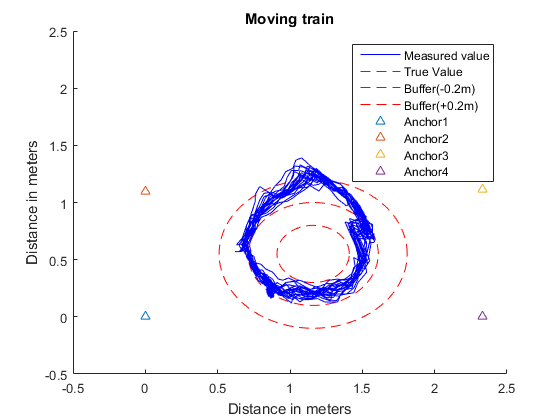
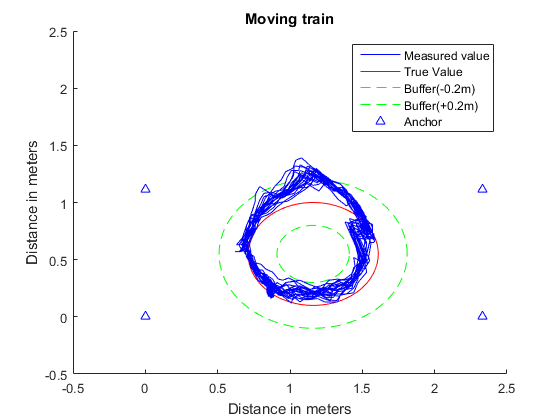
fixed anchor colours

diff --git a/moving_train.m b/moving_train.m
@@ -1,43 +1,41 @@
 
-%Buffer(-0.1 m)
+%Buffer(-0.2 m)
 centers=[1.16, 0.55];
-radii=0.35;
-buffer1=viscircles(centers,radii,'LineWidth',0.5,'LineStyle','--');
+radii=0.25;
+buffer1=viscircles(centers,radii,'LineWidth',0.5,'LineStyle','--','Color','g');
 hold on
 
-%Buffer(+0.1 m)
+%Buffer(+0.2 m)
 centers=[1.16, 0.55];
-radii=0.55;
-buffer2=viscircles(centers,radii,'LineWidth',0.5,'LineStyle','--');
+radii=0.65;
+buffer2=viscircles(centers,radii,'LineWidth',0.5,'LineStyle','--','Color','g');
 hold on
 
 %True Value
 centers=[1.16, 0.55];
 radii=0.45;
-truevalue=viscircles(centers,radii,'LineWidth',0.5,'LineStyle','--');
+truevalue=viscircles(centers,radii,'LineWidth',0.5,'LineStyle','-','Color','r');
 hold on
 
 %Measured Value from decawave LOS
-num1=xlsread('moving_train1.xlsx');
-X_LOS=num1(:,1);
-Y_LOS=num1(:,2);
-ans1_LOS=plot(X_LOS,Y_LOS,'b-')
+%num1=xlsread('moving_train1.xlsx');
+%X_LOS=num1(:,1);
+%Y_LOS=num1(:,2);
+%ans1_LOS=plot(X_LOS,Y_LOS,'b-')
 
 %Measured Value from decawave NLOS(Anchor 3 blocked)
-%num1=xlsread('NLOS_movingtrain_1anchor.xlsx');
-%X_NLOS=num1(:,1);
-%Y_NLOS=num1(:,2);
-%ans1_NLOS=plot(X_NLOS,Y_NLOS,'b-')
+num1=xlsread('NLOS_movingtrain_1anchor.xlsx');
+X_NLOS=num1(:,1);
+Y_NLOS=num1(:,2);
+ans1_NLOS=plot(X_NLOS,Y_NLOS,'b-')
 
 
 %axis([0 3 0 3]);
 
 %Anchor Positions
-
-anchor1=plot(0,0,'^');
-anchor2=plot(0,1.1,'^');
-anchor3=plot(2.33,1.11,'^');
-anchor4=plot(2.33,0,'^');
+x_anch=[0, 0, 2.33, 2.33]
+y_anch=[0,1.11,1.11,0];
+anch=plot(x_anch,y_anch,'b^');
 
 xlim([-.5,2.5]);
 ylim([-.5,2.5]);
@@ -45,7 +43,7 @@ ylim([-.5,2.5]);
 hold off
 
 
-legend([ans1_LOS, truevalue, buffer1, buffer2,anchor1,anchor2,anchor3,anchor4], 'Measured value', 'True Value', 'Buffer(-0.1m)', 'Buffer(+0.1m)','Anchor1','Anchor2','Anchor3','Anchor4');
+legend([ans1_NLOS, truevalue, buffer1, buffer2,anch], 'Measured value', 'True Value', 'Buffer(-0.2m)', 'Buffer(+0.2m)','Anchor');
 title('Moving train');
 xlabel('Distance in meters');
 ylabel('Distance in meters');
